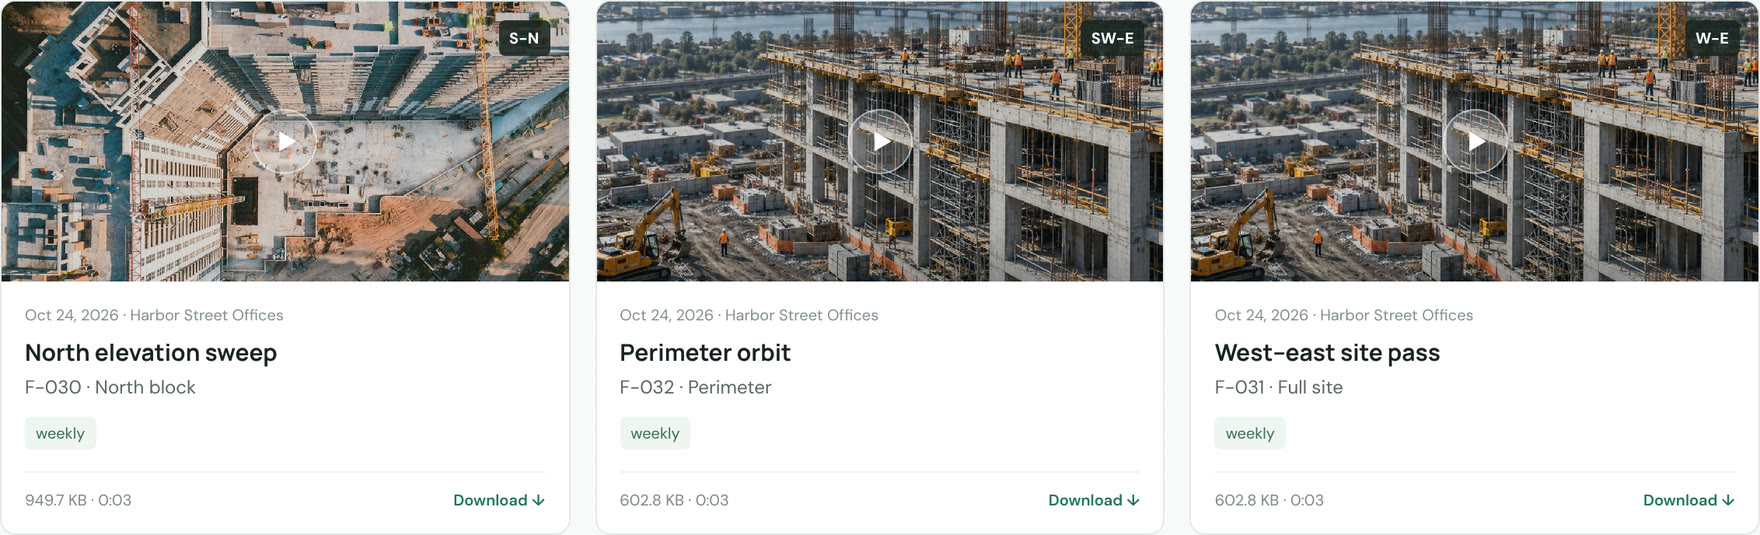
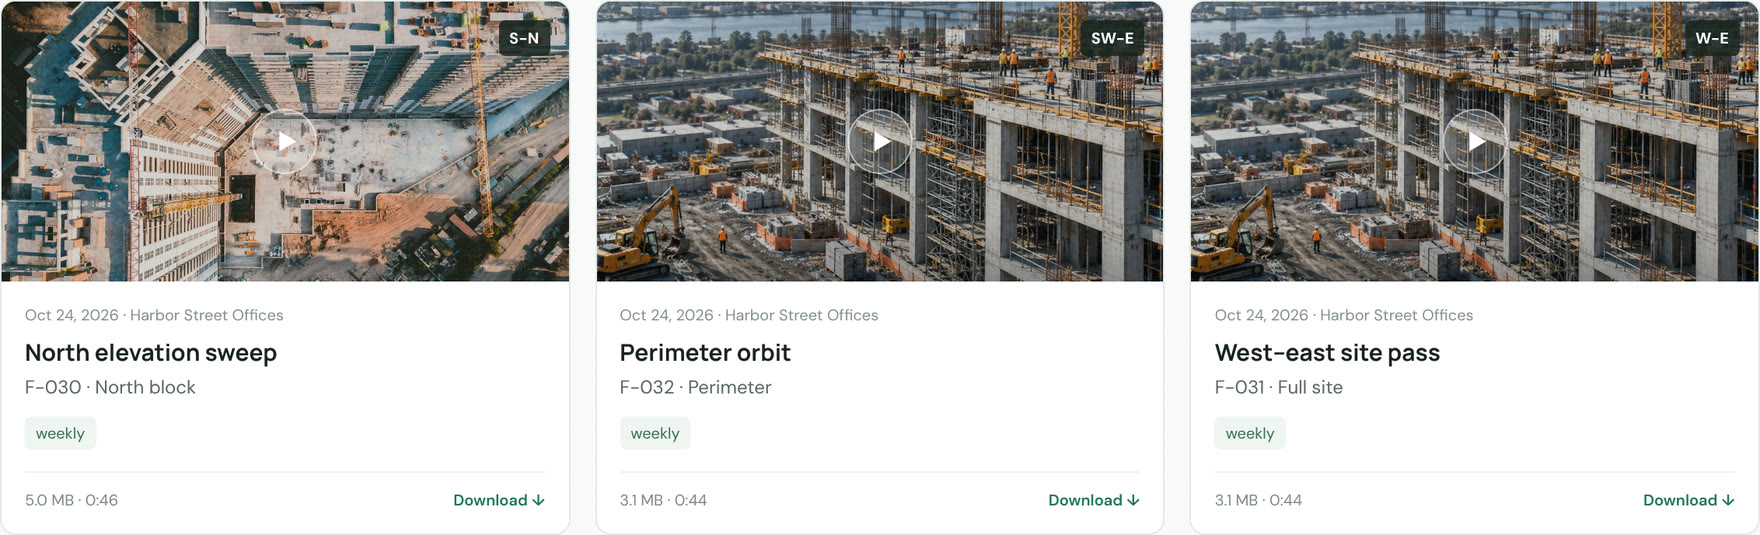
Platform page: lead drone section with the flight viewer, add archive strip
Expand the drone half of the 'Two ways to capture' section: lead with the
real flight viewer interface (aerial video plus a full flight-details panel —
date, direction, drone, pilot, duration, file size), broaden the copy to how
teams use the footage (progress review, RFIs and change orders, pay
applications, dispute resolution), and close the section with a flight-archive
strip showing the searchable, filterable flight library.

Screenshots are captured from the running app on seeded demo data with
realistic clip lengths; still not real client data.

Claude-Session: https://claude.ai/code/session_01HbptFZDy8zkbxJkTT6zB6o

diff --git a/landing-page/web/platform.html b/landing-page/web/platform.html
@@ -1,1 +1,1 @@
-<!doctype html><html lang="en"><head><meta charset="utf-8"><meta name="viewport" content="width=device-width,initial-scale=1"><meta name="description" content="Drone footage, site photos, construction documents and planned specialist capture workflows."><meta name="theme-color" content="#0b282b"><title>Platform | Capture IV</title><link rel="icon" href="/favicon.svg" type="image/svg+xml"><link rel="stylesheet" href="/site.css"><script defer src="/site.js"></script></head><body><header class="nav"><div class="wrap"><a class="brand" href="/" aria-label="Capture IV — Intelligence Visuals"><span class="logo-lockup">Capture <span class="iv">IV</span></span></a><nav class="nav-links" id="navigation" aria-label="Main navigation"><a href="/platform" aria-current="page">Platform</a><a href="/solutions">Solutions</a><a href="/clients">Clients</a><a href="/pricing">Pricing</a><a href="/about">About Us</a><a href="/contact">Contact</a></nav><div class="nav-actions"><a class="signin-link" href="{{PLATFORM_LOGIN_URL}}">Sign in ↗</a><a class="button" href="{{PLATFORM_LOGIN_URL}}">Client Portal <span>↗</span></a><a class="button signup-button" href="{{PLATFORM_SIGNUP_URL}}">Get started</a><button class="menu" aria-label="Open menu" aria-controls="navigation" aria-expanded="false">☰</button></div></div></header><main><section class="page-intro wrap"><p class="eyebrow"><span class="dot"></span>Platform</p><h1>A professional home for<br>your project’s visual record.</h1><p class="lead">Bring the files that tell your project’s story into one clear place—from aerial overviews to the details that matter on site.</p></section><section class="capture-split wrap" aria-labelledby="capture-split-title"><div class="section-intro"><p class="eyebrow"><span class="dot"></span>The platform</p><h2 id="capture-split-title">Two ways to capture.<br>One secure platform.</h2><p>Capture IV brings aerial drone footage and immersive 360° site walkthroughs into a single, organized project record—with security built into every layer.</p></div><div class="capture-rows"><article class="capture-row"><div class="capture-copy"><span class="capture-kicker">01 — Aerial capture</span><h3>Drone Footage</h3><p>Organize every flight by project, date and direction, then open any recording in the context of the wider site.</p><ul class="capture-features"><li>Flights sorted by capture date and flight direction</li><li>Track site progress by comparing dates</li><li>Open any flight video straight from the archive</li><li>Give clients a revocable, time-limited code to view a project's flights</li></ul><a class="text-link capture-cta" href="/solutions">See drone workflows ↗</a></div><figure class="capture-shot"><div class="capture-bar"><span class="dots"><i></i><i></i><i></i></span><span class="name">app.captureiv.com <b>/</b> flights</span><span class="live"><i></i>LIVE PROJECT</span></div><img src="/software-drone.jpg" alt="Capture IV flight archive showing three organized drone flights with aerial thumbnails and W-E, S-N and SW-E direction labels" loading="lazy"></figure></article><article class="capture-row reverse"><figure class="capture-shot"><div class="capture-bar"><span class="dots"><i></i><i></i><i></i></span><span class="name">app.captureiv.com <b>/</b> walkthrough</span><span class="live"><i></i>360° READY</span></div><img src="/software-walkthrough.png" alt="Capture IV site walkthrough viewer showing numbered, color-coded capture routes laid over the A-101 floor plan" loading="lazy"></figure><div class="capture-copy"><span class="capture-kicker">02 — 360° walkthrough</span><h3>Site Walkthrough</h3><p>Capture the whole space with a 360° camera and mark each spot on your floor plan from your phone. Then step back into the site in full immersive view.</p><ul class="capture-features"><li>Works with your 360° camera—the phone maps where each shot was taken</li><li>Numbered, color-coded routes laid over your 2D plan</li><li>Immersive 360° view, date-to-date compare and 3D models</li><li>Video-walk playback with a timeline scrubber</li></ul><a class="text-link capture-cta" href="/solutions">See walkthrough workflows ↗</a></div></article></div><section class="capture-security" aria-labelledby="capture-security-title"><div class="capture-security-head"><div><p class="eyebrow"><span class="dot"></span>Security by design</p><h2 id="capture-security-title">Your project record stays yours.</h2></div><p>Every flight, photo, plan and walkthrough is protected by the same controls—whichever way you capture.</p></div><div class="security-grid" role="list"><div class="security-item" role="listitem"><span class="ico" aria-hidden="true"><svg viewBox="0 0 24 24"><path d="M12 3l7 3v5c0 4.5-3 8-7 10-4-2-7-5.5-7-10V6z"/></svg></span><h3>Separated by company</h3><p>Every project, file and record is isolated to your company. Other tenants can never reach your data—enforced on every request.</p></div><div class="security-item" role="listitem"><span class="ico" aria-hidden="true"><svg viewBox="0 0 24 24"><rect x="5" y="11" width="14" height="9" rx="2"/><path d="M8 11V8a4 4 0 0 1 8 0v3"/></svg></span><h3>Private storage, signed links</h3><p>Footage and files live in a private cloud bucket and are served only through short-lived signed links—never a public URL.</p></div><div class="security-item" role="listitem"><span class="ico" aria-hidden="true"><svg viewBox="0 0 24 24"><circle cx="12" cy="12" r="8"/><path d="M12 8v4l3 2"/></svg></span><h3>Client access you control</h3><p>Share links are time-limited and can be revoked at any moment. Clients see only the projects you choose to grant.</p></div><div class="security-item" role="listitem"><span class="ico" aria-hidden="true"><svg viewBox="0 0 24 24"><circle cx="9" cy="8" r="3.2"/><path d="M3.5 19a5.5 5.5 0 0 1 11 0"/><path d="M16 8.4a3 3 0 0 1 0 5.2"/><path d="M17.8 19a5.6 5.6 0 0 0-2-4.1"/></svg></span><h3>Role-based access</h3><p>Team members are limited to the projects assigned to them, so people only ever see the work that's theirs.</p></div><div class="security-item" role="listitem"><span class="ico" aria-hidden="true"><svg viewBox="0 0 24 24"><circle cx="8" cy="8" r="4"/><path d="M11 11l8 8M16 16l2-2M18.5 18.5l2-2"/></svg></span><h3>Hardened sign-in</h3><p>Passwords are hashed, reset links are single-use and expire, and repeated login attempts are rate-limited.</p></div><div class="security-item" role="listitem"><span class="ico" aria-hidden="true"><svg viewBox="0 0 24 24"><circle cx="12" cy="12" r="9"/><path d="M8 12.5l2.5 2.5 5-6"/></svg></span><h3>Protected sessions</h3><p>Served over encrypted HTTPS connections, with secure cookies and CSRF protection on every change.</p></div></div><p class="security-note">These controls reflect how the Capture IV platform is built and are covered by its automated test suite.</p></section></section><section class="platform-viewer-showcase" aria-labelledby="platform-viewer-title"><div class="wrap"><div class="platform-viewer-heading"><p class="eyebrow"><span class="dot"></span>Capture IV site view</p><h2 id="platform-viewer-title">Every flight, connected to the site.</h2><p>Choose a capture date on the map to open its video details.</p></div><div class="platform-map-window" data-platform-demo><div class="platform-map-toolbar"><span class="platform-window-dots"><i></i><i></i><i></i></span><span class="platform-window-name">CAPTURE IV <b>/</b> SITE VIEW</span><span class="platform-live"><i></i> LIVE PROJECT</span></div><div class="platform-map-canvas"><img src="/construction-aerial.jpg" alt="Aerial view of an active construction site" loading="lazy"><svg class="platform-route" viewBox="0 0 1000 560" preserveAspectRatio="none" aria-hidden="true"><path d="M135 420 L350 245 L665 245 L850 405"/><circle cx="135" cy="420" r="9"/><circle cx="665" cy="245" r="10"/><circle cx="850" cy="405" r="9"/></svg><button type="button" class="platform-date-pin" data-platform-date aria-haspopup="dialog" aria-expanded="false"><small>FLIGHT 04</small><strong>Oct 16</strong></button><div class="platform-photo-pin"><small>PHOTO PIN</small><strong>North entry</strong></div><div class="demo-map-controls platform-map-controls" aria-label="Map controls"><button type="button" class="demo-map-zoom" aria-label="Zoom in">＋</button><button type="button" class="demo-environment-toggle" data-platform-environment aria-pressed="false" aria-controls="platform-environment-mesh"><svg viewBox="0 0 24 24" aria-hidden="true"><path d="m3 8 9-5 9 5-9 5-9-5Zm0 0v8l9 5 9-5V8M12 13v8M7.5 5.5l9 5M16.5 5.5l-9 5"/></svg><span>Environment</span></button><button type="button" class="demo-map-zoom" aria-label="Zoom out">−</button></div><div class="environment-mesh" id="platform-environment-mesh" data-platform-environment-layer hidden aria-hidden="true"><svg viewBox="0 0 1000 560" preserveAspectRatio="none"><defs><pattern id="platform-mesh-grid" width="54" height="48" patternUnits="userSpaceOnUse"><path d="M0 0H54L27 48Z M0 0V48 M54 0V48" fill="none" stroke="currentColor" stroke-width="1.4"/></pattern><linearGradient id="platform-mesh-glow" x1="0" y1="0" x2="1" y2="1"><stop stop-color="#41e6ef" stop-opacity=".28"/><stop offset="1" stop-color="#5aa5ff" stop-opacity=".09"/></linearGradient></defs><path class="mesh-surface" d="M150 390 270 190 595 125 825 290 745 460 415 495Z" fill="url(#platform-mesh-glow)"/><path class="mesh-lines" d="M150 390 270 190 595 125 825 290 745 460 415 495Z" fill="url(#platform-mesh-grid)"/><path class="mesh-contour" d="M150 390 270 190 595 125 825 290 745 460 415 495Z"/><g class="mesh-nodes"><circle cx="270" cy="190" r="4"/><circle cx="595" cy="125" r="4"/><circle cx="825" cy="290" r="4"/><circle cx="745" cy="460" r="4"/><circle cx="415" cy="495" r="4"/></g></svg><div class="environment-mesh-card"><span>3D ENVIRONMENT</span><strong>Surface mesh preview</strong><small>Conceptual visualization · demo</small></div></div><span class="platform-demo-cursor" aria-hidden="true"><svg viewBox="0 0 32 40"><path d="M4 2 L4 29 L11 22 L16 35 L21 33 L16 20 L26 20 Z" fill="#111820" stroke="white" stroke-width="1.5" stroke-linejoin="round"/></svg></span><div class="platform-video-modal" data-platform-modal role="dialog" aria-modal="true" aria-labelledby="platform-video-title" hidden><button type="button" class="platform-modal-close" data-platform-close aria-label="Close video details">×</button><span class="platform-video-icon" aria-hidden="true"><svg viewBox="0 0 64 64"><rect x="7" y="14" width="50" height="36" rx="7"/><path d="m27 23 14 9-14 9z"/></svg></span><p class="platform-modal-eyebrow">FLIGHT 04 · OCT 16</p><h3 id="platform-video-title">Flight video</h3><p class="platform-modal-copy">Open the recorded flight from this date in the project viewer.</p><span class="platform-modal-access"><i></i> Available in viewer mode</span></div></div></div></div></section><section class="wrap compact-section"><div class="service-grid"><article class="service-card"><span class="service-index">01 / CORE PLATFORM</span><h3>Drone Footage</h3><p>Organize aerial recordings by project, capture date and flight direction. Bring each flight into the context of the wider site.</p></article><article class="service-card"><span class="service-index">02 / CORE PLATFORM</span><h3>Site Photos</h3><p>Build a dated visual record of conditions, site areas and important details, with photo-location workflows designed around the project.</p></article><article class="service-card"><span class="service-index">03 / CORE PLATFORM</span><h3>Construction Documents</h3><p>Keep plans, supporting documents and project files close to the visual evidence they explain.</p></article></div></section><section class="wrap compact-section"><div class="section-intro"><p class="eyebrow">Capture & processing workflows</p><h2>See the site.<br>Understand the detail.</h2><p>Specialist capture and processing workflows that inform the Capture IV platform roadmap.</p></div><div class="capability-list"><article class="capability"><h3>Terrestrial LiDAR / 3D Laser Scanners</h3><p>High-density tripod scanning for detailed structural baselines. Millimeter-level accuracy depends on the instrument, site conditions and survey controls.</p></article><article class="capability"><h3>Drone / UAV Photogrammetry Fleets</h3><p>Commercial aerial capture workflows for earthwork volumes, topographic maps and large-site overviews, using appropriate processing and survey controls.</p></article><article class="capability"><h3>360° Construction Walkthrough Cameras</h3><p>Field-crew captures for repeated structural and interior visual progress documentation.</p></article><article class="capability"><h3>Pix4D & Processing Engines</h3><p>Reference processed deliverables from cloud or desktop photogrammetry tools that turn aerial photographs into maps and measurable models.</p></article><article class="capability"><h3>OpenSpace / HoloBuilder</h3><p>Plan for deliverables from documentation tools that associate 360° imagery with project floor plans. Third-party accounts and supported exports are separate.</p></article></div></section><section class="wrap compact-section"><div class="section-intro"><p class="eyebrow">Subsurface scanning & underground mapping hardware</p><h2>Keep the unseen<br>part of the record.</h2><p>Organize specialist investigation and inspection deliverables alongside the wider construction record.</p></div><div class="capability-list"><article class="capability"><h3>High-Frequency Concrete GPR Scanners</h3><p>Handheld radar workflows for investigating shallow rebar, post-tension cables and conduits within concrete slabs.</p></article><article class="capability"><h3>Cart-Based Multi-Channel Utility GPR</h3><p>Wheeled ground-penetrating radar workflows for investigating outdoor utilities and voids. Detection depth varies with ground conditions and the target.</p></article><article class="capability"><h3>Electromagnetic (EM) Locators</h3><p>Induction-based locating workflows for tracing conductive utilities and energized cables where suitable signal conditions exist.</p></article><article class="capability"><h3>Robotic CCTV Pipeline Crawlers</h3><p>Remote-controlled cameras for collecting visual inspection records inside stormwater and sewer pipelines.</p></article><article class="capability"><h3>SLAM Mobile Underground LiDAR</h3><p>GPS-denied handheld or vehicle-mounted scanning for mapping tunnels, mines, vaults and other enclosed spaces.</p></article></div><aside class="note-panel">These specialist workflows describe the planned scope of deliverable support and services. Hardware supply, scanning services, automated measurements and named software integrations are not currently included in the live portal. Availability and supported formats will be confirmed for each project. Third-party names describe the workflows, not an affiliation or existing integration.</aside></section><section class="wrap page-end"><h2>Bring your project into focus.</h2><p>Explore how Capture IV can support the way your team captures, organizes and shares project information.</p><div class="actions"><a class="button" href="/contact">Talk to us ↗</a><a class="text-link" href="/pricing">Explore plans ↗</a></div></section></main><footer class="footer"><div class="wrap"><div class="footer-top"><div><a class="brand" href="/" aria-label="Capture IV home"><span class="logo-lockup">Capture <span class="iv">IV</span></span></a><p>Intelligence Visuals.<br>A clearer view of every project.</p></div><nav class="footer-links" aria-label="Footer navigation"><a href="/platform">Platform</a><a href="/solutions">Solutions</a><a href="/clients">Clients</a><a href="/pricing">Pricing</a><a href="/about">About Us</a><a href="/contact">Contact</a></nav></div><div class="footer-bottom"><span>© 2024 Capture IV</span><a class="support-link" href="mailto:support@captureiv.com">Contact support</a></div></div></footer></body></html>
+<!doctype html><html lang="en"><head><meta charset="utf-8"><meta name="viewport" content="width=device-width,initial-scale=1"><meta name="description" content="Drone footage, site photos, construction documents and planned specialist capture workflows."><meta name="theme-color" content="#0b282b"><title>Platform | Capture IV</title><link rel="icon" href="/favicon.svg" type="image/svg+xml"><link rel="stylesheet" href="/site.css"><script defer src="/site.js"></script></head><body><header class="nav"><div class="wrap"><a class="brand" href="/" aria-label="Capture IV — Intelligence Visuals"><span class="logo-lockup">Capture <span class="iv">IV</span></span></a><nav class="nav-links" id="navigation" aria-label="Main navigation"><a href="/platform" aria-current="page">Platform</a><a href="/solutions">Solutions</a><a href="/clients">Clients</a><a href="/pricing">Pricing</a><a href="/about">About Us</a><a href="/contact">Contact</a></nav><div class="nav-actions"><a class="signin-link" href="{{PLATFORM_LOGIN_URL}}">Sign in ↗</a><a class="button" href="{{PLATFORM_LOGIN_URL}}">Client Portal <span>↗</span></a><a class="button signup-button" href="{{PLATFORM_SIGNUP_URL}}">Get started</a><button class="menu" aria-label="Open menu" aria-controls="navigation" aria-expanded="false">☰</button></div></div></header><main><section class="page-intro wrap"><p class="eyebrow"><span class="dot"></span>Platform</p><h1>A professional home for<br>your project’s visual record.</h1><p class="lead">Bring the files that tell your project’s story into one clear place—from aerial overviews to the details that matter on site.</p></section><section class="capture-split wrap" aria-labelledby="capture-split-title"><div class="section-intro"><p class="eyebrow"><span class="dot"></span>The platform</p><h2 id="capture-split-title">Two ways to capture.<br>One secure platform.</h2><p>Capture IV brings aerial drone footage and immersive 360° site walkthroughs into a single, organized project record—with security built into every layer.</p></div><div class="capture-rows"><article class="capture-row"><div class="capture-copy"><span class="capture-kicker">01 — Aerial capture</span><h3>Drone Footage</h3><p>Full-site aerial documentation on a repeatable schedule. Open any flight in a viewer built for the field—review progress in context, compare it against earlier passes, and keep a dated visual record your whole team can trust.</p><p>Teams use it to update schedules, resolve RFIs and change orders, support pay applications, and settle disputes—with the footage to back it up.</p><ul class="capture-features"><li>Organized by project, capture date and flight direction</li><li>Full-resolution video with a details panel—drone, pilot, area and duration</li><li>Download the original file at any time</li><li>Share with clients through a revocable, time-limited code</li></ul><a class="text-link capture-cta" href="/solutions">See drone workflows ↗</a></div><figure class="capture-shot"><div class="capture-bar"><span class="dots"><i></i><i></i><i></i></span><span class="name">app.captureiv.com <b>/</b> flight</span><span class="live"><i></i>VIEWER</span></div><img src="/software-drone-viewer.jpg" alt="Capture IV drone flight viewer: an aerial video of the job site beside a flight-details panel listing date, direction, drone, pilot and duration" loading="lazy"></figure></article><div class="capture-archive"><div class="capture-archive-head"><span class="capture-kicker">The flight archive</span><p>Every pass lands in one searchable library—filter by date, direction or project, then open any flight in the viewer above.</p></div><figure class="capture-shot capture-archive-shot"><div class="capture-bar"><span class="dots"><i></i><i></i><i></i></span><span class="name">app.captureiv.com <b>/</b> flights</span><span class="live"><i></i>ARCHIVE</span></div><img src="/software-drone.jpg" alt="Capture IV flight archive: three drone flights for one project, each with an aerial thumbnail, direction label and capture date" loading="lazy"></figure></div><article class="capture-row reverse"><figure class="capture-shot"><div class="capture-bar"><span class="dots"><i></i><i></i><i></i></span><span class="name">app.captureiv.com <b>/</b> walkthrough</span><span class="live"><i></i>360° READY</span></div><img src="/software-walkthrough.png" alt="Capture IV site walkthrough viewer showing numbered, color-coded capture routes laid over the A-101 floor plan" loading="lazy"></figure><div class="capture-copy"><span class="capture-kicker">02 — 360° walkthrough</span><h3>Site Walkthrough</h3><p>Capture the whole space with a 360° camera and mark each spot on your floor plan from your phone. Then step back into the site in full immersive view.</p><ul class="capture-features"><li>Works with your 360° camera—the phone maps where each shot was taken</li><li>Numbered, color-coded routes laid over your 2D plan</li><li>Immersive 360° view, date-to-date compare and 3D models</li><li>Video-walk playback with a timeline scrubber</li></ul><a class="text-link capture-cta" href="/solutions">See walkthrough workflows ↗</a></div></article></div><section class="capture-security" aria-labelledby="capture-security-title"><div class="capture-security-head"><div><p class="eyebrow"><span class="dot"></span>Security by design</p><h2 id="capture-security-title">Your project record stays yours.</h2></div><p>Every flight, photo, plan and walkthrough is protected by the same controls—whichever way you capture.</p></div><div class="security-grid" role="list"><div class="security-item" role="listitem"><span class="ico" aria-hidden="true"><svg viewBox="0 0 24 24"><path d="M12 3l7 3v5c0 4.5-3 8-7 10-4-2-7-5.5-7-10V6z"/></svg></span><h3>Separated by company</h3><p>Every project, file and record is isolated to your company. Other tenants can never reach your data—enforced on every request.</p></div><div class="security-item" role="listitem"><span class="ico" aria-hidden="true"><svg viewBox="0 0 24 24"><rect x="5" y="11" width="14" height="9" rx="2"/><path d="M8 11V8a4 4 0 0 1 8 0v3"/></svg></span><h3>Private storage, signed links</h3><p>Footage and files live in a private cloud bucket and are served only through short-lived signed links—never a public URL.</p></div><div class="security-item" role="listitem"><span class="ico" aria-hidden="true"><svg viewBox="0 0 24 24"><circle cx="12" cy="12" r="8"/><path d="M12 8v4l3 2"/></svg></span><h3>Client access you control</h3><p>Share links are time-limited and can be revoked at any moment. Clients see only the projects you choose to grant.</p></div><div class="security-item" role="listitem"><span class="ico" aria-hidden="true"><svg viewBox="0 0 24 24"><circle cx="9" cy="8" r="3.2"/><path d="M3.5 19a5.5 5.5 0 0 1 11 0"/><path d="M16 8.4a3 3 0 0 1 0 5.2"/><path d="M17.8 19a5.6 5.6 0 0 0-2-4.1"/></svg></span><h3>Role-based access</h3><p>Team members are limited to the projects assigned to them, so people only ever see the work that's theirs.</p></div><div class="security-item" role="listitem"><span class="ico" aria-hidden="true"><svg viewBox="0 0 24 24"><circle cx="8" cy="8" r="4"/><path d="M11 11l8 8M16 16l2-2M18.5 18.5l2-2"/></svg></span><h3>Hardened sign-in</h3><p>Passwords are hashed, reset links are single-use and expire, and repeated login attempts are rate-limited.</p></div><div class="security-item" role="listitem"><span class="ico" aria-hidden="true"><svg viewBox="0 0 24 24"><circle cx="12" cy="12" r="9"/><path d="M8 12.5l2.5 2.5 5-6"/></svg></span><h3>Protected sessions</h3><p>Served over encrypted HTTPS connections, with secure cookies and CSRF protection on every change.</p></div></div><p class="security-note">These controls reflect how the Capture IV platform is built and are covered by its automated test suite.</p></section></section><section class="platform-viewer-showcase" aria-labelledby="platform-viewer-title"><div class="wrap"><div class="platform-viewer-heading"><p class="eyebrow"><span class="dot"></span>Capture IV site view</p><h2 id="platform-viewer-title">Every flight, connected to the site.</h2><p>Choose a capture date on the map to open its video details.</p></div><div class="platform-map-window" data-platform-demo><div class="platform-map-toolbar"><span class="platform-window-dots"><i></i><i></i><i></i></span><span class="platform-window-name">CAPTURE IV <b>/</b> SITE VIEW</span><span class="platform-live"><i></i> LIVE PROJECT</span></div><div class="platform-map-canvas"><img src="/construction-aerial.jpg" alt="Aerial view of an active construction site" loading="lazy"><svg class="platform-route" viewBox="0 0 1000 560" preserveAspectRatio="none" aria-hidden="true"><path d="M135 420 L350 245 L665 245 L850 405"/><circle cx="135" cy="420" r="9"/><circle cx="665" cy="245" r="10"/><circle cx="850" cy="405" r="9"/></svg><button type="button" class="platform-date-pin" data-platform-date aria-haspopup="dialog" aria-expanded="false"><small>FLIGHT 04</small><strong>Oct 16</strong></button><div class="platform-photo-pin"><small>PHOTO PIN</small><strong>North entry</strong></div><div class="demo-map-controls platform-map-controls" aria-label="Map controls"><button type="button" class="demo-map-zoom" aria-label="Zoom in">＋</button><button type="button" class="demo-environment-toggle" data-platform-environment aria-pressed="false" aria-controls="platform-environment-mesh"><svg viewBox="0 0 24 24" aria-hidden="true"><path d="m3 8 9-5 9 5-9 5-9-5Zm0 0v8l9 5 9-5V8M12 13v8M7.5 5.5l9 5M16.5 5.5l-9 5"/></svg><span>Environment</span></button><button type="button" class="demo-map-zoom" aria-label="Zoom out">−</button></div><div class="environment-mesh" id="platform-environment-mesh" data-platform-environment-layer hidden aria-hidden="true"><svg viewBox="0 0 1000 560" preserveAspectRatio="none"><defs><pattern id="platform-mesh-grid" width="54" height="48" patternUnits="userSpaceOnUse"><path d="M0 0H54L27 48Z M0 0V48 M54 0V48" fill="none" stroke="currentColor" stroke-width="1.4"/></pattern><linearGradient id="platform-mesh-glow" x1="0" y1="0" x2="1" y2="1"><stop stop-color="#41e6ef" stop-opacity=".28"/><stop offset="1" stop-color="#5aa5ff" stop-opacity=".09"/></linearGradient></defs><path class="mesh-surface" d="M150 390 270 190 595 125 825 290 745 460 415 495Z" fill="url(#platform-mesh-glow)"/><path class="mesh-lines" d="M150 390 270 190 595 125 825 290 745 460 415 495Z" fill="url(#platform-mesh-grid)"/><path class="mesh-contour" d="M150 390 270 190 595 125 825 290 745 460 415 495Z"/><g class="mesh-nodes"><circle cx="270" cy="190" r="4"/><circle cx="595" cy="125" r="4"/><circle cx="825" cy="290" r="4"/><circle cx="745" cy="460" r="4"/><circle cx="415" cy="495" r="4"/></g></svg><div class="environment-mesh-card"><span>3D ENVIRONMENT</span><strong>Surface mesh preview</strong><small>Conceptual visualization · demo</small></div></div><span class="platform-demo-cursor" aria-hidden="true"><svg viewBox="0 0 32 40"><path d="M4 2 L4 29 L11 22 L16 35 L21 33 L16 20 L26 20 Z" fill="#111820" stroke="white" stroke-width="1.5" stroke-linejoin="round"/></svg></span><div class="platform-video-modal" data-platform-modal role="dialog" aria-modal="true" aria-labelledby="platform-video-title" hidden><button type="button" class="platform-modal-close" data-platform-close aria-label="Close video details">×</button><span class="platform-video-icon" aria-hidden="true"><svg viewBox="0 0 64 64"><rect x="7" y="14" width="50" height="36" rx="7"/><path d="m27 23 14 9-14 9z"/></svg></span><p class="platform-modal-eyebrow">FLIGHT 04 · OCT 16</p><h3 id="platform-video-title">Flight video</h3><p class="platform-modal-copy">Open the recorded flight from this date in the project viewer.</p><span class="platform-modal-access"><i></i> Available in viewer mode</span></div></div></div></div></section><section class="wrap compact-section"><div class="service-grid"><article class="service-card"><span class="service-index">01 / CORE PLATFORM</span><h3>Drone Footage</h3><p>Organize aerial recordings by project, capture date and flight direction. Bring each flight into the context of the wider site.</p></article><article class="service-card"><span class="service-index">02 / CORE PLATFORM</span><h3>Site Photos</h3><p>Build a dated visual record of conditions, site areas and important details, with photo-location workflows designed around the project.</p></article><article class="service-card"><span class="service-index">03 / CORE PLATFORM</span><h3>Construction Documents</h3><p>Keep plans, supporting documents and project files close to the visual evidence they explain.</p></article></div></section><section class="wrap compact-section"><div class="section-intro"><p class="eyebrow">Capture & processing workflows</p><h2>See the site.<br>Understand the detail.</h2><p>Specialist capture and processing workflows that inform the Capture IV platform roadmap.</p></div><div class="capability-list"><article class="capability"><h3>Terrestrial LiDAR / 3D Laser Scanners</h3><p>High-density tripod scanning for detailed structural baselines. Millimeter-level accuracy depends on the instrument, site conditions and survey controls.</p></article><article class="capability"><h3>Drone / UAV Photogrammetry Fleets</h3><p>Commercial aerial capture workflows for earthwork volumes, topographic maps and large-site overviews, using appropriate processing and survey controls.</p></article><article class="capability"><h3>360° Construction Walkthrough Cameras</h3><p>Field-crew captures for repeated structural and interior visual progress documentation.</p></article><article class="capability"><h3>Pix4D & Processing Engines</h3><p>Reference processed deliverables from cloud or desktop photogrammetry tools that turn aerial photographs into maps and measurable models.</p></article><article class="capability"><h3>OpenSpace / HoloBuilder</h3><p>Plan for deliverables from documentation tools that associate 360° imagery with project floor plans. Third-party accounts and supported exports are separate.</p></article></div></section><section class="wrap compact-section"><div class="section-intro"><p class="eyebrow">Subsurface scanning & underground mapping hardware</p><h2>Keep the unseen<br>part of the record.</h2><p>Organize specialist investigation and inspection deliverables alongside the wider construction record.</p></div><div class="capability-list"><article class="capability"><h3>High-Frequency Concrete GPR Scanners</h3><p>Handheld radar workflows for investigating shallow rebar, post-tension cables and conduits within concrete slabs.</p></article><article class="capability"><h3>Cart-Based Multi-Channel Utility GPR</h3><p>Wheeled ground-penetrating radar workflows for investigating outdoor utilities and voids. Detection depth varies with ground conditions and the target.</p></article><article class="capability"><h3>Electromagnetic (EM) Locators</h3><p>Induction-based locating workflows for tracing conductive utilities and energized cables where suitable signal conditions exist.</p></article><article class="capability"><h3>Robotic CCTV Pipeline Crawlers</h3><p>Remote-controlled cameras for collecting visual inspection records inside stormwater and sewer pipelines.</p></article><article class="capability"><h3>SLAM Mobile Underground LiDAR</h3><p>GPS-denied handheld or vehicle-mounted scanning for mapping tunnels, mines, vaults and other enclosed spaces.</p></article></div><aside class="note-panel">These specialist workflows describe the planned scope of deliverable support and services. Hardware supply, scanning services, automated measurements and named software integrations are not currently included in the live portal. Availability and supported formats will be confirmed for each project. Third-party names describe the workflows, not an affiliation or existing integration.</aside></section><section class="wrap page-end"><h2>Bring your project into focus.</h2><p>Explore how Capture IV can support the way your team captures, organizes and shares project information.</p><div class="actions"><a class="button" href="/contact">Talk to us ↗</a><a class="text-link" href="/pricing">Explore plans ↗</a></div></section></main><footer class="footer"><div class="wrap"><div class="footer-top"><div><a class="brand" href="/" aria-label="Capture IV home"><span class="logo-lockup">Capture <span class="iv">IV</span></span></a><p>Intelligence Visuals.<br>A clearer view of every project.</p></div><nav class="footer-links" aria-label="Footer navigation"><a href="/platform">Platform</a><a href="/solutions">Solutions</a><a href="/clients">Clients</a><a href="/pricing">Pricing</a><a href="/about">About Us</a><a href="/contact">Contact</a></nav></div><div class="footer-bottom"><span>© 2024 Capture IV</span><a class="support-link" href="mailto:support@captureiv.com">Contact support</a></div></div></footer></body></html>

diff --git a/landing-page/web/site.css b/landing-page/web/site.css
@@ -377,3 +377,9 @@ html{scroll-padding-top:88px}body{background:var(--paper);color:var(--ink);backg
 .capture-shot{margin:0;overflow:hidden;border:1px solid #c9d8db;border-radius:16px;background:#0e1f27;box-shadow:0 22px 60px #15313b1f}
 .capture-shot img{display:block;width:100%;height:auto}
 @media(max-width:860px){.capture-row,.capture-row.reverse{grid-template-columns:1fr;gap:24px}.capture-row .capture-copy{order:-1}}
+/* Drone section: secondary paragraph + end-of-section flight archive strip */
+.capture-copy>p+p{margin:-6px 0 20px;font-size:14px;color:#526873;line-height:1.6}
+.capture-archive{margin-top:clamp(30px,4vw,48px)}
+.capture-archive-head{display:flex;align-items:baseline;gap:8px 16px;flex-wrap:wrap;margin:0 0 16px}
+.capture-archive-head .capture-kicker{flex:none}
+.capture-archive-head p{margin:0;color:#526873;font-size:15px;line-height:1.6;max-width:660px}
